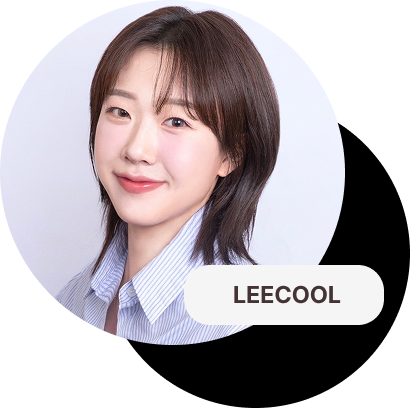
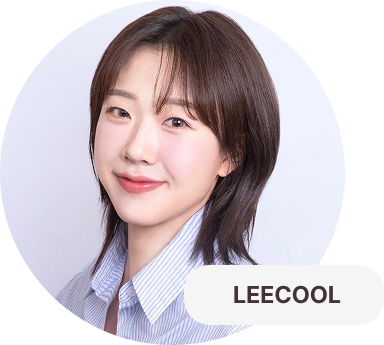
작업중중

diff --git a/src/pages/LandingPage.tsx b/src/pages/LandingPage.tsx
@@ -11,11 +11,24 @@ import DownloadIcon from "../assets/image/ic-download.png";
 import LinkedInIcon from "../assets/image/ic-linkedin.png";
 import GithubIcon from "../assets/image/ic-github.png";
 import TistoryIcon from "../assets/image/ic-tistory.png";
-import React from "react";
-import { motion } from "motion/react";
+import React, { useEffect, useRef, useState } from "react";
+import {
+  motion,
+  useMotionValue,
+  useMotionValueEvent,
+  useScroll,
+  useTransform,
+} from "motion/react";
 import AnimatedCharacters from "../components/textAnimations/RevealWavyText";
+import { Scrollbar } from "smooth-scrollbar-react";
 
 const LandingPage = () => {
+  const containerRef = useRef(null);
+
+  const scrollY = useMotionValue(0);
+
+  const { scrollbar } = useScrollbar;
+
   const container = {
     visible: {
       transition: {
@@ -24,12 +37,27 @@ const LandingPage = () => {
     },
   };
 
+  const revealCircle = {
+    hidden: {
+      x: 0, // 추가 가능 (X축 이동)
+      y: "-45%", // Y축 이동
+    },
+    visible: {
+      x: "60px",
+      y: "calc(-45% + 60px)", // 수정된 부분
+      transition: { ease: [0.455, 0.03, 0.515, 0.955], duration: 0.75 },
+    },
+  };
+
   return (
-    <LandingContainer>
+    <LandingContainer
+      ref={containerRef}
+      style={{ borderRadius: scrollYProgress }}
+    >
       <TypoContainer variants={container}>
         <Box mb={6}>
-          <AnimatedCharacters text="안녕하세요" />
-          <AnimatedCharacters text="Front-end Developer" />
+          <AnimatedCharacters text="안녕하세요," />
+          <AnimatedCharacters text="Front-end Developer" isbold />
           <AnimatedCharacters text="이시원 입니다." />
         </Box>
         <Box>
@@ -49,18 +77,6 @@ const LandingPage = () => {
             <Box component={"span"}>Residence.</Box>
             Seoul, South Korea
           </Typography>
-          {/* <Typography>
-            React, Typescript 기반의 4년차 Frontend 개발자 입니다.
-            <br />
-            기업의 인사이트 도출을 위한 빅데이터 통합 플랫폼 및 어드민 서비스
-            개발 등을 해왔습니다.
-            <br />
-            사용 매뉴얼이 필요 없는 서비스를 목표로, 심플함이 곧 강력함 이라는
-            철학을 바탕으로 개발에 임합니다.
-            <br />
-            지속 가능한 UX라는 공동 가치를 위해 팀과 함께 성장하며 기여하고자
-            합니다.
-          </Typography> */}
           <LinkBox>
             <ResumeButton>
               Resume
@@ -84,44 +100,24 @@ const LandingPage = () => {
       </TypoContainer>
       <ImageContainer>
         <img src={ProfileImg} alt="profile image" />
+        <BlackCircle
+          variants={revealCircle}
+          initial="hidden"
+          whileInView="visible"
+          viewport={{
+            once: false,
+          }}
+        ></BlackCircle>
       </ImageContainer>
     </LandingContainer>
   );
 };
 
-const transition = {
-  duration: 1,
-  ease: [0.18, 0.12, 0.39, 0.98],
-};
-
-const textReveal = {
-  initial: {
-    y: "200%",
-    opacity: 0,
-  },
-  animate: {
-    y: "0%",
-    opacity: 1,
-  },
-};
-
-const RegularText = styled(motion.h4)({
-  fontSize: "64px",
-  fontWeight: 500,
-});
-
-const BoldText = styled(motion.h1)({
-  fontSize: "64px",
-  fontWeight: 500,
-});
-
-const LandingContainer = styled(Box)({
+const LandingContainer = styled(motion.div)({
   width: "100%",
-  height: "calc(100vh - 30px)",
+  minHeight: "calc(100vh - 30px)",
   position: "relative",
   background: "#FAF7ED",
-  borderRadius: "0 0 100px 100px",
-  overflowX: "hidden",
   display: "flex",
 });
 
@@ -185,5 +181,17 @@ const LinkBox = styled(Box)({
   "& .MuiIconButton-root > img": {
     width: "36px",
   },
+});
+
+const BlackCircle = styled(motion.div)({
+  width: "300px",
+  height: "300px",
+  borderRadius: "50%",
+  background: "#000",
+  position: "absolute",
+  right: "10%",
+  top: "45%",
+  transform: "translateY(-45%)",
+  zIndex: -1,
 });
 export default LandingPage;

diff --git a/src/components/textAnimations/RevealWavyText.tsx b/src/components/textAnimations/RevealWavyText.tsx
@@ -2,10 +2,16 @@ import React from "react";
 import { motion } from "framer-motion";
 import { Typography } from "@mui/material";
 
-const AnimatedCharacters = ({ text }: { text: string }) => {
+const AnimatedCharacters = ({
+  text,
+  isbold,
+}: {
+  text: string;
+  isbold?: boolean;
+}) => {
   // 애니메이션 설정
   const item = {
-    hidden: { y: "200%", opacity: 0 },
+    hidden: { y: "100%", opacity: 0 },
     visible: {
       y: 0,
       opacity: 1,
@@ -14,10 +20,20 @@ const AnimatedCharacters = ({ text }: { text: string }) => {
   };
 
   // 텍스트를 한 글자씩 나누기
-  const letters = text.split("");
+  const letters = text
+    .split("")
+    .map((char) => (char === " " ? "\u00A0" : char));
 
   return (
-    <Typography variant="h1" component="span" sx={{ display: "block" }}>
+    <Typography
+      variant="h1"
+      component="span"
+      sx={{
+        display: "block",
+        fontWeight: isbold ? 700 : 600,
+        fontSize: "64px",
+      }}
+    >
       {letters.map((char, index) => (
         <span
           key={index}
@@ -27,7 +43,10 @@ const AnimatedCharacters = ({ text }: { text: string }) => {
             style={{ display: "inline-block" }}
             variants={item}
             initial="hidden"
-            animate="visible"
+            whileInView="visible"
+            viewport={{
+              once: false,
+            }}
           >
             {char}
           </motion.span>
@@ -36,5 +55,4 @@ const AnimatedCharacters = ({ text }: { text: string }) => {
     </Typography>
   );
 };
-
 export default AnimatedCharacters;

diff --git a/src/App.tsx b/src/App.tsx
@@ -1,4 +1,4 @@
-import { useEffect, useRef } from "react";
+import { useEffect, useRef, useState } from "react";
 import "./App.css";
 import CommonLayout from "./components/layouts/CommonLayout";
 import IndexPage from "./pages/IndexPage";
@@ -11,14 +11,31 @@ import { Scrollbar } from "smooth-scrollbar-react";
 import { OverscrollEffect } from "smooth-scrollbar/plugins/overscroll";
 import CareerPage from "./pages/CareerPage";
 import ProjectPage from "./pages/ProjectPage";
+import { useMotionValue, useMotionValueEvent, useScroll } from "motion/react";
 
 function App() {
-  const scrollbar = useRef<BaseScrollbar | null>(null);
+  const scrollbarRef = useRef<BaseScrollbar | null>(null);
+  const [scrollY, setScrollY] = useState<number>();
+  const scrollMotion = useMotionValue(0); // ✅ Motion Value 생성
+
+  useEffect(() => {
+    const scrollbar = scrollbarRef.current;
+
+    if (!scrollbar) return;
+
+    scrollbar?.addListener((status) => {
+      console.log("status", status);
+    });
+
+    if (scrollbar.offset.y !== scrollY) {
+      setScrollY(scrollbar.offset.y);
+    }
+  }, [scrollbarRef.current?.offset.y]);
 
   return (
     <>
       <Scrollbar
-        ref={scrollbar}
+        ref={scrollbarRef}
         plugins={{ overscroll: { effect: OverscrollEffect.GLOW } } as const}
         damping={0.05}
       >
@@ -38,7 +55,6 @@ const PageLayout = styled(Box)({
   width: "100vw",
   height: "100vh",
   fontFamily: "Pretendard",
-  overflowX: "hidden",
   display: "flex",
 });
 

diff --git a/src/pages/ProjectPage.tsx b/src/pages/ProjectPage.tsx
@@ -22,7 +22,7 @@ const ProjectContainer = styled(Box)({
   // height: "calc(100vh + 30px)",
   position: "relative",
   borderRadius: "0 0 100px 100px",
-  overflowX: "hidden",
+  // overflowX: "hidden",
   display: "flex",
   padding: "100px 10%",
   flexDirection: "column",

diff --git a/src/pages/InfoPage.tsx b/src/pages/InfoPage.tsx
@@ -83,7 +83,7 @@ const InfoContainer = styled(Box)({
   minHeight: "calc(100vh + 30px)",
   position: "relative",
   borderRadius: "0 0 100px 100px",
-  overflowX: "hidden",
+  // overflowX: "hidden",
   display: "flex",
   padding: "100px 10%",
   flexDirection: "column",

diff --git a/src/pages/CareerPage.tsx b/src/pages/CareerPage.tsx
@@ -30,7 +30,7 @@ const CareerContainer = styled(Box)({
   background: "#FAF7ED",
   position: "relative",
   borderRadius: "0 0 60px 60px",
-  overflowX: "hidden",
+  // overflowX: "hidden",
   display: "flex",
   padding: "180px 10% 80px 10%",
   flexDirection: "column",

diff --git a/src/components/layouts/CommonLayout.tsx b/src/components/layouts/CommonLayout.tsx
@@ -20,7 +20,7 @@ const PageLayout = styled(Box)({
   position: "relative",
   width: "100vw",
   fontFamily: "Pretendard",
-  overflowX: "hidden",
+  // overflowX: "hidden",
 });
 
 export default CommonLayout;

diff --git a/src/App.css b/src/App.css
@@ -5,9 +5,9 @@
   font-family: "Pretendard" !important;
 }
 
-body {
+/* body {
   overflow-x: hidden;
-}
+} */
 
 /* font  */
 @font-face {
